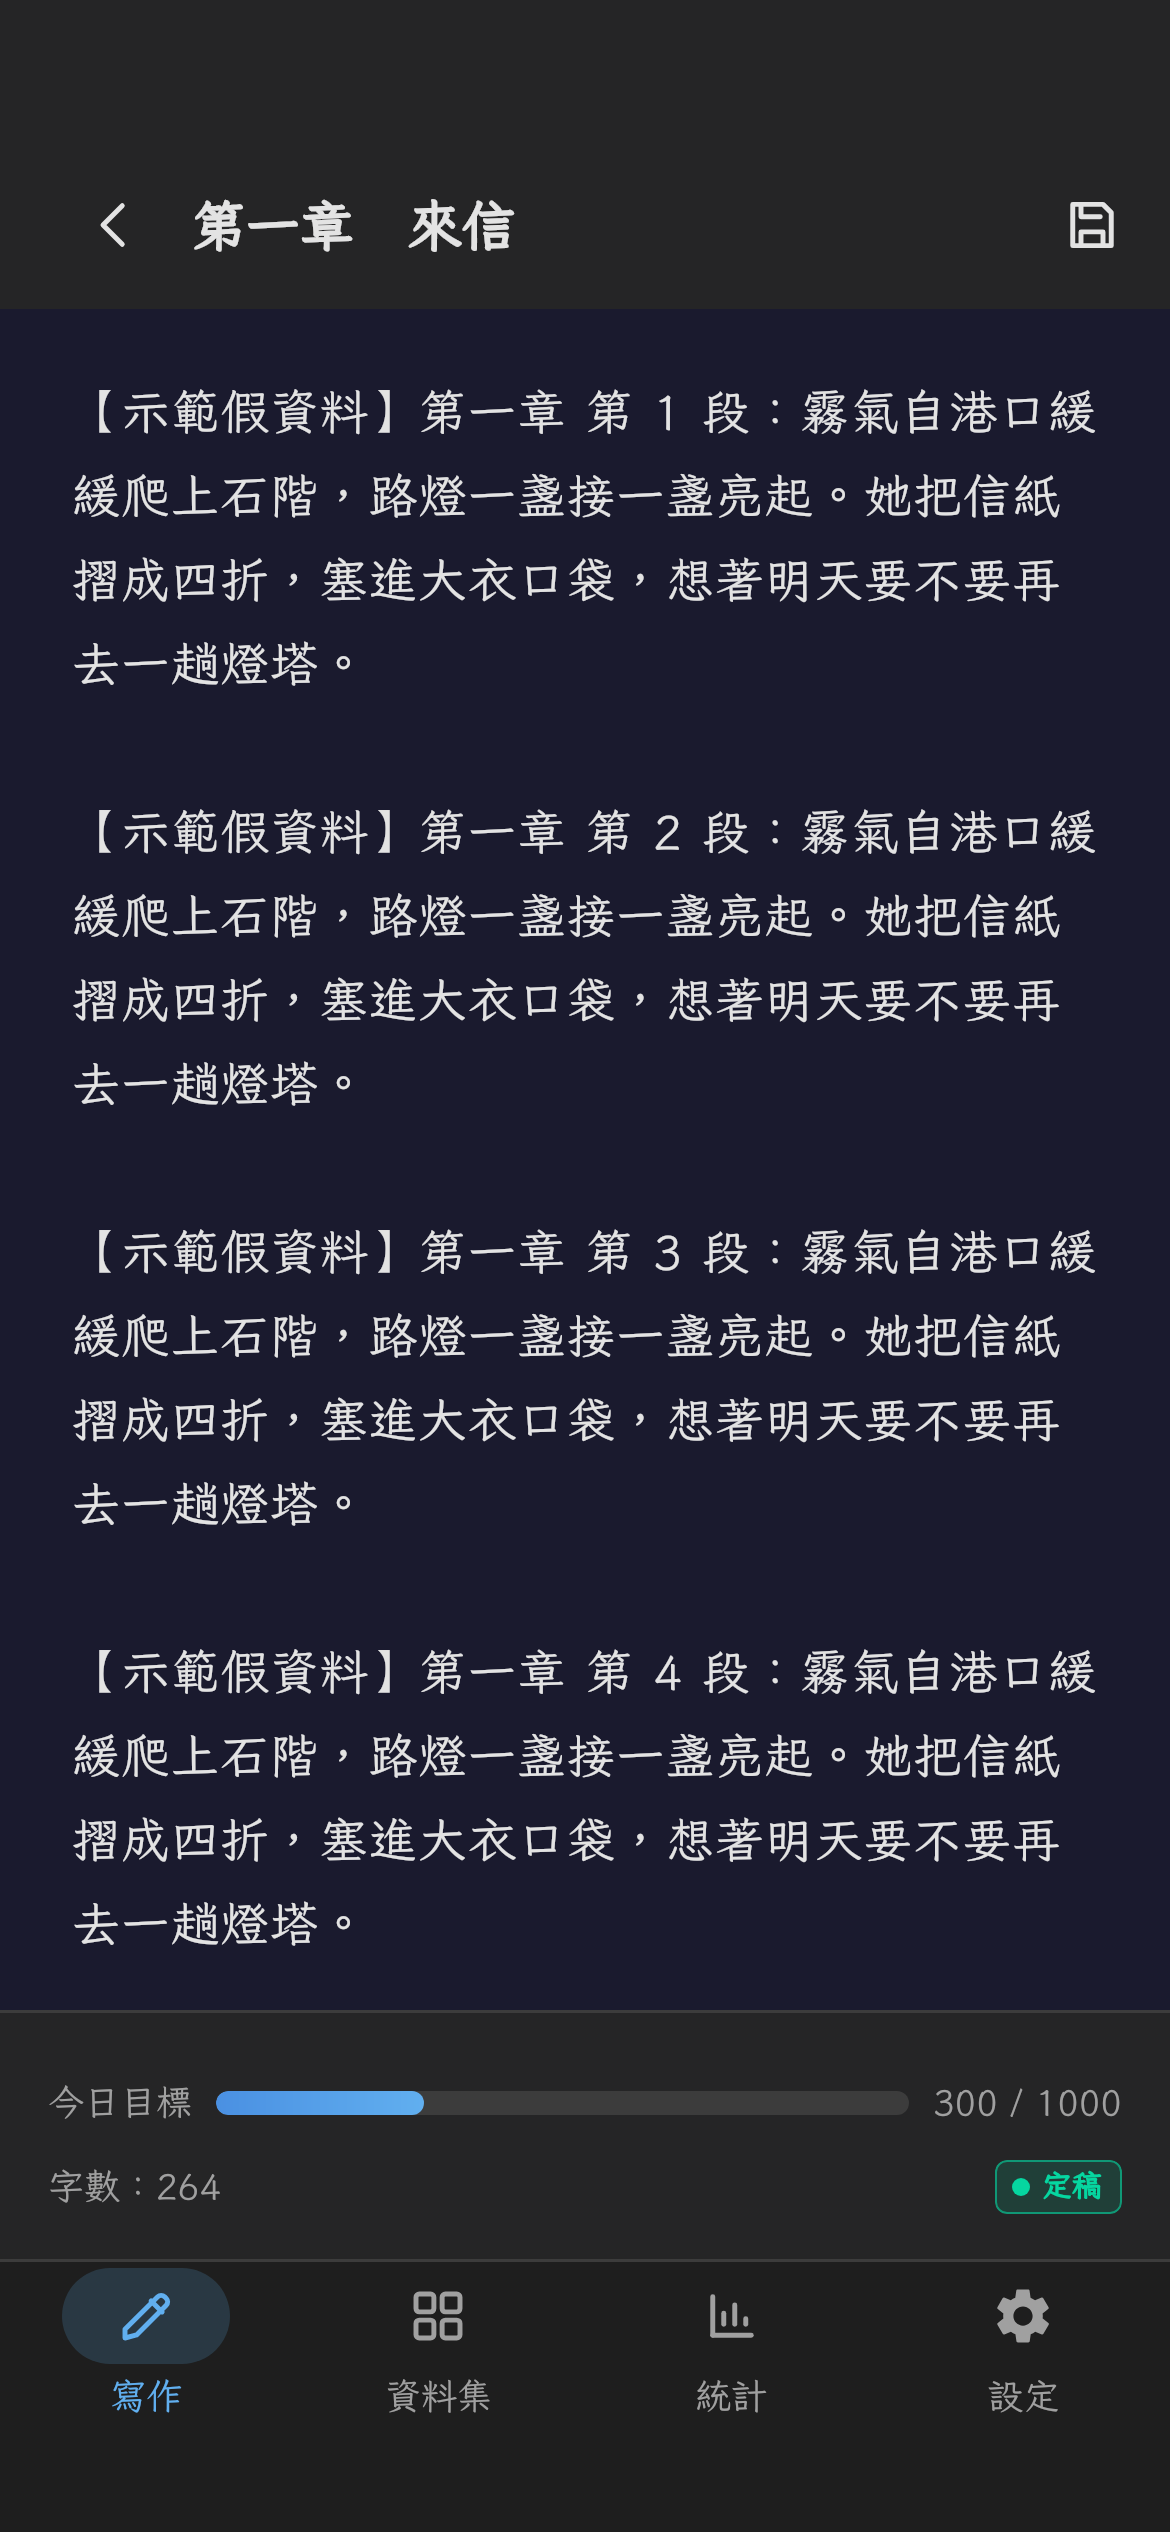
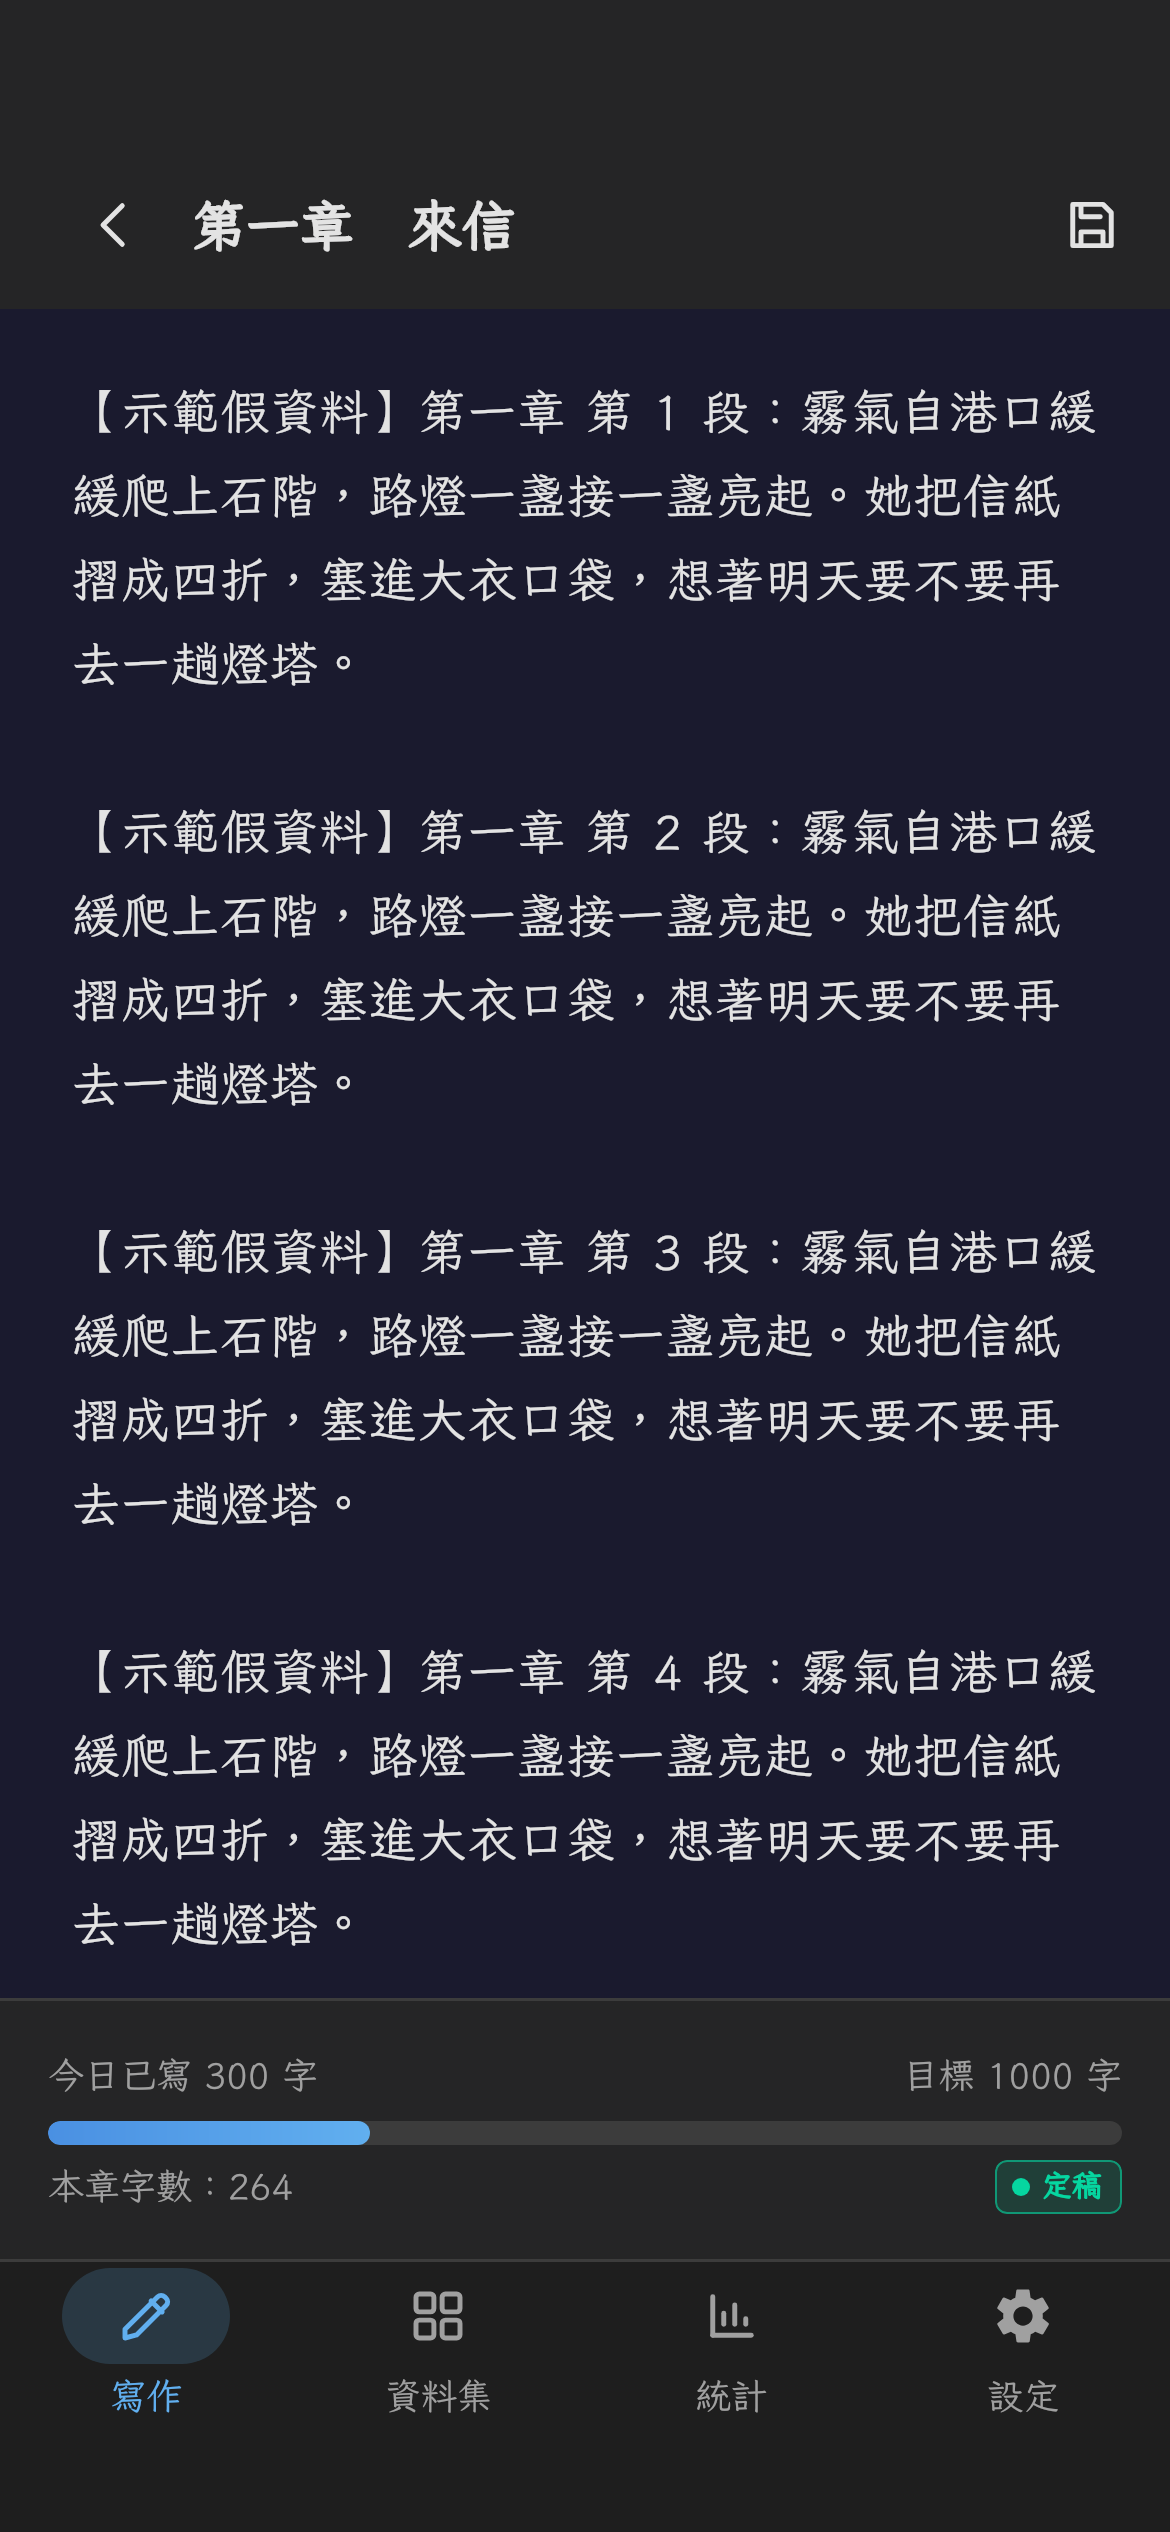
修好斷網後重新載入，並分開標示今日已寫與本章字數
字型小塊改在第一次打開時存進離線快取。離線測試改成真的關掉伺服器，避免 WebKit 模擬斷線的內部錯誤。
寫作畫面底部改標「今日已寫」和「本章字數」。

Changed region(s): [[0.0308, 0.8112, 0.3692, 0.8736], [0.7692, 0.8112, 0.9538, 0.8424]]

diff --git a/src/components/DailyProgressBar.tsx b/src/components/DailyProgressBar.tsx
@@ -19,14 +19,16 @@ export function DailyProgressBar({
       aria-valuemin={0}
       aria-valuemax={goal}
       aria-valuenow={Math.min(words, goal)}
-      aria-label={met ? '今日目標已達成' : '今日目標進度'}
+      aria-label={
+        met ? `今日已寫 ${words} 字，已達到目標 ${goal} 字` : `今日已寫 ${words} 字，目標 ${goal} 字`
+      }
     >
-      <span className="daily-bar-caption">{met ? '✦ 今日已達標' : '今日目標'}</span>
+      <div className="daily-bar-heading">
+        <span>{met ? '✦ 今日已寫' : '今日已寫'} {words} 字{met ? '，已達標' : ''}</span>
+        <span>目標 {goal} 字</span>
+      </div>
       <span className="daily-bar-track">
         <span className="daily-bar-fill" style={{ width: `${ratio}%` }} />
-      </span>
-      <span className="daily-bar-count">
-        {words} / {goal}
       </span>
     </div>
   );

diff --git a/src/styles/global.css b/src/styles/global.css
@@ -362,18 +362,19 @@ a { color: var(--accent); }
 }
 
 .daily-bar {
-  display: grid;
-  grid-template-columns: auto 1fr auto;
-  align-items: center;
-  gap: 8px;
+  display: flex;
+  flex-direction: column;
+  gap: 6px;
   min-height: 28px;
 }
 
-.daily-bar-caption, .daily-bar-count {
+.daily-bar-heading {
+  display: flex;
+  justify-content: space-between;
+  gap: 8px;
   font-size: 12px;
   font-weight: 500;
   color: var(--muted);
-  white-space: nowrap;
 }
 
 .daily-bar-track {
@@ -391,8 +392,7 @@ a { color: var(--accent); }
   transition: width 0.35s ease;
 }
 
-.daily-bar.is-met .daily-bar-caption,
-.daily-bar.is-met .daily-bar-count { color: var(--final); }
+.daily-bar.is-met .daily-bar-heading { color: var(--final); }
 
 .daily-bar.is-met .daily-bar-fill {
   background: var(--final);

diff --git a/vite.config.ts b/vite.config.ts
@@ -31,9 +31,11 @@ export default defineConfig({
         ],
       },
       workbox: {
-        globPatterns: ['**/*.{js,css,html,svg,png,ico,webmanifest,txt}'],
-        globIgnores: ['**/iansui-*.woff2'],
+        // 字型小塊也放進預先快取。否則第一次打開時，字型往往在服務程式接手之前就下載完，
+        // 斷網後重新載入寫作畫面會退回系統字型。
+        globPatterns: ['**/*.{js,css,html,svg,png,ico,webmanifest,txt,woff2}'],
         navigateFallback: '/index.html',
+        navigateFallbackDenylist: [/^\/fonts\//],
         runtimeCaching: [
           {
             urlPattern: /\/fonts\/iansui\/.*\.woff2$/,

diff --git a/src/screens/EditorPane.tsx b/src/screens/EditorPane.tsx
@@ -57,7 +57,7 @@ export function EditorPane({ projectId, chapter }: { projectId: string; chapter:
       <footer className="editor-status" data-testid="status-bar">
         <DailyProgressBar words={todayWords} goal={goal} met={isGlowing} />
         <div className="status-row">
-          <span>字數：{countWords(chapter.content ?? '')}</span>
+          <span data-testid="chapter-word-count">本章字數：{countWords(chapter.content ?? '')}</span>
           {chapter.progress && <StatusBadge code={chapter.progress} />}
         </div>
       </footer>

diff --git a/docs/階段1樣品報告.md b/docs/階段1樣品報告.md
@@ -10,7 +10,7 @@
 - 字用芫荽。字型檔切成很多小塊，畫面上用到哪些字，瀏覽器才下載哪些。授權聲明放在網站裡。
 - 可以加到 iPhone 主畫面。名稱是「九方小說編輯器M」，圖示是深色底、藍色書本。
 - 首頁、章節目錄、寫作畫面都能點。寫作區是手機自己的文字框，**可以真的打字**。
-- 寫作畫面底下有一條今日目標進度條。還沒達標是藍色，慢慢變長；達標時變成綠色，安靜地發一點光，不閃、不蓋住正文。
+- 寫作畫面底下有一條今日目標進度條，標的是「今日已寫」和「目標」。另一行才是「本章字數」，兩個數字不會混在一起。還沒達標是藍色，慢慢變長；達標時變成綠色，安靜地發一點光，不閃、不蓋住正文。
 - 統計頁有「已達成幾次」。這個次數只算已經結束的日子，今天就算亮著也不先算進去。
 - 設定裡可以改每日目標（最少 300 字，沒有上限），也可以選一天幾點結束，預設午夜 12 點。
 - 另有一頁「寫作過程紀錄」，一天一列，有字數、寫作時間、大量貼上、大量刪除。
@@ -59,7 +59,7 @@
 1. **注音、倉頡**。組字還沒選字時，程式不去改文字框。選字按 Enter，不該多出一行，也不該觸發存檔。電腦上的 WebKit 沒有注音鍵盤，這段只能在 iPhone 上試。
 2. **鍵盤會不會擋住正在打的那一行**。程式有跟著鍵盤把畫面縮短、把游標捲上來，但是 iPhone 的鍵盤行為要實機看。
 3. **加到主畫面**。圖示和名稱「九方小說編輯器M」是否正確，名稱會不會被系統截斷。
-4. **沒有網路時打不打得開**。第一次要先用有網路的狀態打開，讓手機把畫面存下來。之後開飛航模式，從主畫面圖示再打開。這次在自動化的 WebKit 裡，服務程式有裝起來，可是一切斷網路就讀不到頁面（重新整理還會讓這個測試用的瀏覽器內部出錯）。所以離線這件事**還沒被自動測試證明**，一定要在 iPhone 上試。
+4. **沒有網路時打不打得開**。電腦上的 WebKit 已經用「把網站伺服器關掉」測過：第一次打開並等它存好之後，重新載入首頁和寫作畫面都還在，可以打字，字仍是芫荽。請九方再用自己的 iPhone 開飛航模式確認一次。
 5. **從主畫面圖示打開，和從 Safari 分頁打開，資料會不會變成兩份**。如果會，以後的說明要提醒固定從圖示進去。
 6. **複製、分享、拖曳**。見下一節。
 7. 字看起來是不是芫荽。芫荽只有一種粗細，標題的「粗」是瀏覽器幫上去的，筆畫可能和舊 App 的粗黑體不完全一樣。
@@ -117,6 +117,14 @@
 - **資料集**這階段只有說明，沒有卡片。
 - 寬螢幕（例如平板）會變成左邊直排按鈕、目錄和寫作並排。這次截圖是手機尺寸。
 
+## 離線為什麼上次會失敗
+
+上次用測試工具的「模擬斷線」。這個環境的 WebKit 只要一切斷線，連一個沒有離線程式的空白頁也會內部錯誤，所以當時讀不到頁面，不代表快取壞了。
+
+這次改成把預覽伺服器真正關掉（連線被拒絕，和飛航模式一樣是真的連不上）。結果是：第一次打開、等服務程式把畫面和芫荽存好之後，重新載入首頁與寫作畫面都開得了，可以打一個字，正文仍用芫荽。
+
+另外補了一件事：字型小塊改成第一次打開時就存進手機。先前字型常常在離線程式接手之前就下載完，沒有放進離線快取；若只靠當時的記憶，換一頁或重新載入後，冷門的字可能變回系統字。
+
 ## 建置確認
 
-`npm test`：48 個測試通過。`npm run build`：成功，產出在 `dist`。
+`npm test`：48 個測試通過。`npm run build`：成功，產出在 `dist`。離線情境另有 WebKit 自動測試 `scripts/offline-webkit.mjs`。
